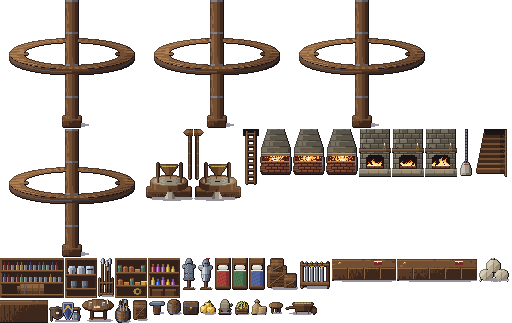
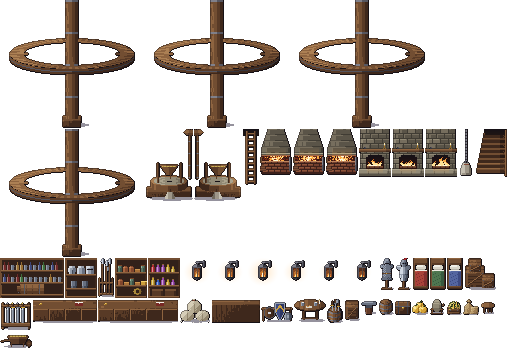
Light the mill's wall lanterns like the town's lamps
The two lanterns on the mill's back wall hang on iron brackets and flicker
through the same six-frame flame loop as the square's lamps and the trail
lanterns (rest, lean left, peak, lean right, dip, ember), each a few frames
behind the other, with warm light spilling onto the stone that swells as
the flame peaks.

diff --git a/prepare_town_rooms.py b/prepare_town_rooms.py
@@ -1158,6 +1158,62 @@ def ladder():
     return s
 
 
+def wall_lantern(frame):
+    """A lantern hung from an iron bracket on the wall, its four-pane cage lit by a flame
+    behind the middle bar. The frames are the town lamps' and the trail lanterns' loop (rest,
+    lean left, peak, lean right, dip, ember), and its warm light spills well past the cage
+    onto the wall around it, brighter as the flame peaks. The cage's middle is 16 px across
+    and 14 down."""
+    lean, height, bright = T.LAMP_FLAMES[frame]
+    s = surface(32, 36)
+    fx, base = 16.0, 18
+    # The bracket: a plate on the wall and an arm out over the lantern.
+    for y in range(3, 9):
+        s.set_at((22, y), IRON[2] if y > 3 else IRON[3])
+        s.set_at((23, y), IRON[1])
+    for x in range(15, 23):
+        s.set_at((x, 4), IRON[3] if x < 18 else IRON[2])
+    s.set_at((16, 5), IRON[2])
+    # The cap.
+    for y, x0, x1 in ((6, 15, 17), (7, 13, 19), (8, 12, 20)):
+        for x in range(x0, x1):
+            s.set_at((x, y), IRON[3] if x < 16 else IRON[1])
+    # The cage and its panes.
+    for y in range(9, 20):
+        for x in range(12, 20):
+            if x in (12, 19) or y in (9, 19):
+                s.set_at((x, y), IRON[2] if x == 12 or y == 9 else IRON[0])
+                continue
+            d = sqrt((x + .5 - fx) ** 2 + ((y + .5 - (base - height / 2)) * .8) ** 2)
+            s.set_at((x, y), ramp(GLOW, (3.4 - d * .6) * bright))
+    for y in range(base - round(height) + 1, base + 1):
+        rise = (base - y) / height
+        half = (1 - rise) * 1.9 + .45
+        cx = fx + lean * rise
+        for x in range(13, 19):
+            off = abs(x + .5 - cx)
+            if off <= half:
+                core = off <= half * .45 and rise < .7
+                s.set_at((x, y), FIRE[3 if core and bright > 1 else 2 if core else 1 if off <= half * .8 else 0])
+    for y in range(10, 19):
+        s.set_at((16, y), mix(IRON[1], GLOW[2], .35 * bright))
+    for x in range(13, 19):
+        s.set_at((x, 20), IRON[1] if x < 17 else IRON[0])
+    s.set_at((15, 21), IRON[2])
+    s.set_at((16, 21), IRON[0])
+    soft_outline(s)
+    # Warm light on the wall round it, on the clear pixels only.
+    for y in range(36):
+        for x in range(32):
+            if s.get_at((x, y))[3]:
+                continue
+            d = sqrt((x + .5 - fx) ** 2 + ((y + .5 - 14) * 1.1) ** 2)
+            reach = 14 * bright
+            if d < reach:
+                s.set_at((x, y), (255, 184, 92, round(84 * bright * (1 - d / reach) ** 1.3)))
+    return s
+
+
 def hoist():
     """The sack hoist's chain hanging down through the trap, with a full sack on its hook."""
     s = surface(16, 48)
@@ -1247,6 +1303,8 @@ def furniture():
         out[f"forge-{frame}"] = forge(frame)
     for frame in range(4):
         out[f"spurwheel-{frame}"] = spurwheel(frame)
+    for frame in range(len(T.LAMP_FLAMES)):
+        out[f"lantern-{frame}"] = wall_lantern(frame)
     # A bed per quilt, so a row of beds isn't all one colour.
     for i in range(3):
         out[f"bed-{i}"] = bed(i)

diff --git a/windehus_rooms.py b/windehus_rooms.py
@@ -32,8 +32,8 @@ VOID, TOP, FACE, FLOOR, DOORWAY = " ", "#", "W", ".", "D"
 # stands on its bottom row only, and the rows above it are behind it (or, for the millstones'
 # spindles, overhead).
 DEEP = {"bed": 2, "millstones": 2, "table": 2}
-# Things the party walks under or past: they block nothing.
-OPEN = ("hoist",)
+# Things the party walks under or past, or that hang on the wall: they block nothing.
+OPEN = ("hoist", "lantern")
 # The mill's great spur wheel turns overhead on its shaft: only the shaft's tile blocks.
 SHAFT = "spurwheel"
 # The mill's floor: an oval in tiles (centre x, centre y, x radius, y radius).
@@ -87,9 +87,10 @@ ROOMS = {room.name: room for room in (
                  ("sacks", 1, 4), ("barrel", 1, 6), ("gourds", 2, 6), ("crates", 1, 8), ("barrel", 10, 8)),
          npc_spots={"shopkeeper": (8, 4), "customer": (7, 6)}),
     Room("mill", "The Mill", "windmill", 15, 14, door_x=7, floor="planks", wall="rubble",
-         windows=(3, 11), decor=(("lantern", 5), ("lantern", 10)),
+         windows=(3, 11),
          things=(("spurwheel-0", 3, 8), ("millstones", 1, 8), ("millstones-r", 11, 8), ("ladder", 9, 3),
-                 ("hoist", 4, 5), ("flour-sacks", 3, 11), ("wheelbarrow", 10, 11), ("barrel", 12, 10)),
+                 ("hoist", 4, 5), ("flour-sacks", 3, 11), ("wheelbarrow", 10, 11), ("barrel", 12, 10),
+                 ("lantern-0", 4, 2), ("lantern-0", 9, 2)),
          npc_spots={"miller": (9, 9), "by the stones": (4, 9)}),
 )}
 

diff --git a/windehus_town.py b/windehus_town.py
@@ -30,9 +30,9 @@ BIRD_PHASE_MS = 370            # so the birds don't breathe together
 LAMP_MS = (110, 100, 90, 110, 120, 130)
 LAMP_PHASE_MS = sum(LAMP_MS[:3])
 # Indoors: {sprite prefix: frame times in ms}. The spur wheel turns a quarter cog a frame, in
-# step with the sails outside.
+# step with the sails outside, and wall lanterns flicker like the lamps in the square.
 ROOM_MOTION = {"hearth-": (140, 120, 160), "forge-": (190, 170, 210),
-               "spurwheel-": (round(SAIL_SECONDS * 1000),) * 4}
+               "spurwheel-": (round(SAIL_SECONDS * 1000),) * 4, "lantern-": LAMP_MS}
 
 
 class TownMap:
@@ -152,7 +152,8 @@ class WindehusTown:
                         times = ROOM_MOTION[prefix]
                         for frame in range(len(times)):
                             self.sprite(f"{prefix}{frame}")
-                        self.motions.append([item, prefix, times, len(self.motions) * 230, 0])
+                        phase = len(self.motions) * (LAMP_PHASE_MS if prefix == "lantern-" else 230)
+                        self.motions.append([item, prefix, times, phase, 0])
                 elif name == windehus.MILL_SAILS:
                     self.sails = item
                 elif name.startswith("sheepbird-"):

diff --git a/test_windehus_town.py b/test_windehus_town.py
@@ -222,6 +222,16 @@ class WindehusTownTests(unittest.TestCase):
             town.animate(tick * .1)
             seen.add(a.canvas.itemcget(wheel[0], "image"))
         self.assertEqual(len(seen), 4)
+        # The wall lanterns flicker through all six flame frames, out of step with each other.
+        lanterns = [m for m in town.motions if m[1] == "lantern-"]
+        self.assertEqual(len(lanterns), 2)
+        seen = set()
+        for tick in range(120):
+            town.animate(tick * .033)
+            seen.add(a.canvas.itemcget(lanterns[0][0], "image"))
+        self.assertEqual(len(seen), 6)
+        town.animate(0)
+        self.assertNotEqual(lanterns[0][4], lanterns[1][4])
         self.step("down")
         self.walk_in_at("weapons")
         forge = next(m for m in town.motions if m[1] == "forge-")

diff --git a/test_windehus_rooms.py b/test_windehus_rooms.py
@@ -109,7 +109,7 @@ class RoomLayoutTests(unittest.TestCase):
             self.assertEqual(keys, sorted(keys))
 
     def test_animated_pieces_have_every_frame(self):
-        for prefix, frames in (("hearth-", 3), ("forge-", 3), ("spurwheel-", 4)):
+        for prefix, frames in (("hearth-", 3), ("forge-", 3), ("spurwheel-", 4), ("lantern-", 6)):
             sizes = {self.sizes[f"{prefix}{frame}"] for frame in range(frames)}
             self.assertEqual(len(sizes), 1, prefix)
 

diff --git a/assets/town/art-notes.md b/assets/town/art-notes.md
@@ -164,10 +164,10 @@ Walking up into the door of the inn, a shop or the mill goes inside. Stepping in
   - **The weaponsmith** (`shop-arms`, the sword sign): a flagstone floor, a brick forge under a stone hood at its chimney end, racks of swords and spears, crossed swords on the wall, an anvil, a grindstone, a barrel of blades and a counter.
   - **The armourer** (`house-slate`, which now has a shield sign by its door): stands of mail and plate, a rack of shields, a shelf of helms, shields on the wall, a hearth at its chimney end, a chest and a counter.
   - **General goods** (`shop-goods`, the flask sign): plaster and timber walls over a plank wainscot like its ground floor, shelves of jars and of potions, herbs drying on the wall, sacks, barrels, crates, gourds and a counter. It has no chimney, so no fire.
-  - **The mill** (`windmill`): a round room of rubble stone like the tower. The main shaft rises through the middle from its bearing on the floor, and the great spur wheel turns on it overhead. Its cogs meet the stone nut on the spindle of each pair of millstones. Each pair sits in a wooden tun under its hopper. There's a ladder up through the ceiling, the sack hoist's chain, flour sacks, a barrow and lanterns.
+  - **The mill** (`windmill`): a round room of rubble stone like the tower. The main shaft rises through the middle from its bearing on the floor, and the great spur wheel turns on it overhead. Its cogs meet the stone nut on the spindle of each pair of millstones. Each pair sits in a wooden tun under its hopper. There's a ladder up through the ceiling, the sack hoist's chain, flour sacks, a barrow and two lanterns on iron brackets.
 - **Furniture** stands in sorted order round the party like the town's things. It is packed into `rooms/furniture.png` (index `rooms/furniture.json`). The barrels, crates, sacks and gourds are the town's own sprites.
 - **What blocks:** a piece stands on its bottom row, except beds, tables and millstones, which take two rows. The spur wheel stands only on its shaft's tile, so the party walks round the shaft and under the wheel.
-- **Animation:** hearth fires (`hearth-0..2`) and the forge's coals (`forge-0..2`) flicker. The spur wheel (`spurwheel-0..3`) turns a quarter cog a frame, in step with the sails outside.
+- **Animation:** hearth fires (`hearth-0..2`) and the forge's coals (`forge-0..2`) flicker. The spur wheel (`spurwheel-0..3`) turns a quarter cog a frame, in step with the sails outside. The mill's wall lanterns (`lantern-0..5`) flicker through the same six-frame flame loop as the square's lamps and the trail lanterns, with warm light spilling onto the wall that swells as the flame peaks, each lantern three frames behind the other.
 - **Room for people:** each room keeps open floor round its tables and in front of every counter. `npc_spots` marks where the innkeeper, the smith, the armourer, the shopkeeper and the miller will stand, for scenes to come.
 - **The camera:** a room narrower or shorter than the screen sits in the middle of it, in the dark of the canvas.
 - Each room's flat layer is baked into `rooms/<room>-ground.png`. A test re-renders them and fails if a room changes without a rebuild (`python prepare_town_rooms.py`).
